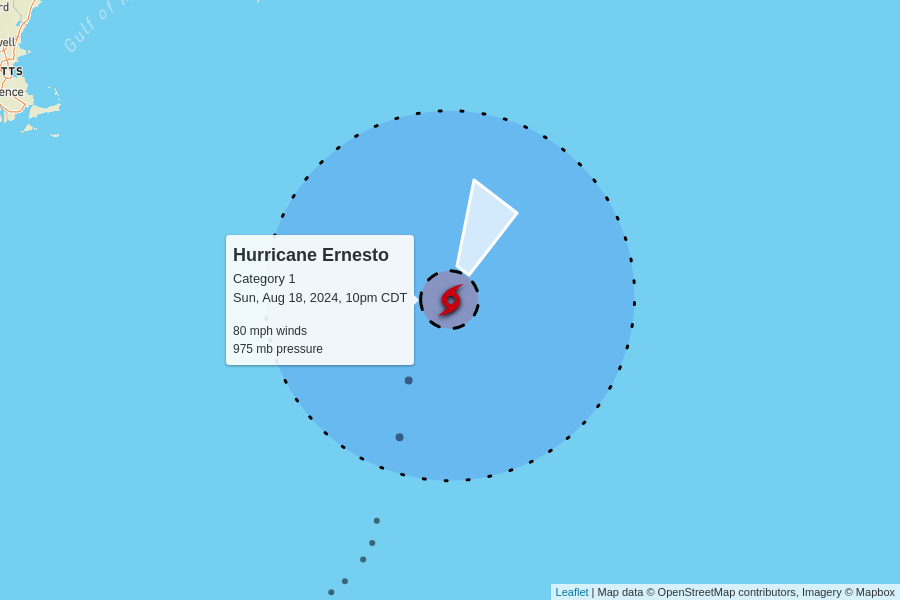
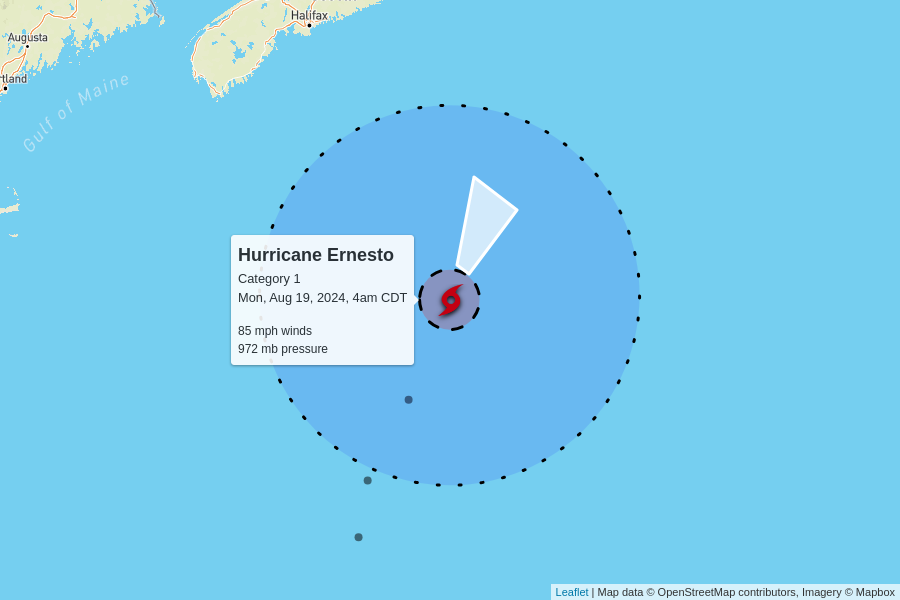
automatic update

diff --git a/docs/index.html b/docs/index.html
@@ -102,7 +102,7 @@
         <td colspan="6" class="storm category-1" >
           <h2>
             Hurricane Ernesto - Category 1
-            <p class="updated">last updated <span data-time>2024-08-19T03:00:00.000Z</span></p>
+            <p class="updated">last updated <span data-time>2024-08-19T09:00:00.000Z</span></p>
           </h2>
         </td>
       </tr>
@@ -117,10 +117,10 @@
       </tr>
       <tr>
         <td class="spacer"></td>
-        <td>80 mph<br>+5 mph since last update</td>
-        <td>975 mb<br>-2 mb since last update</td>
+        <td>85 mph<br>+5 mph since last update</td>
+        <td>972 mb<br>-3 mb since last update</td>
         <td>
-          20 mph to the north-northeast
+          21 mph to the north-northeast
           <br/>
           <span style="display: inline-block; font-size: 1.5em; transform: rotate(30deg);">↑</span>
         </td>
